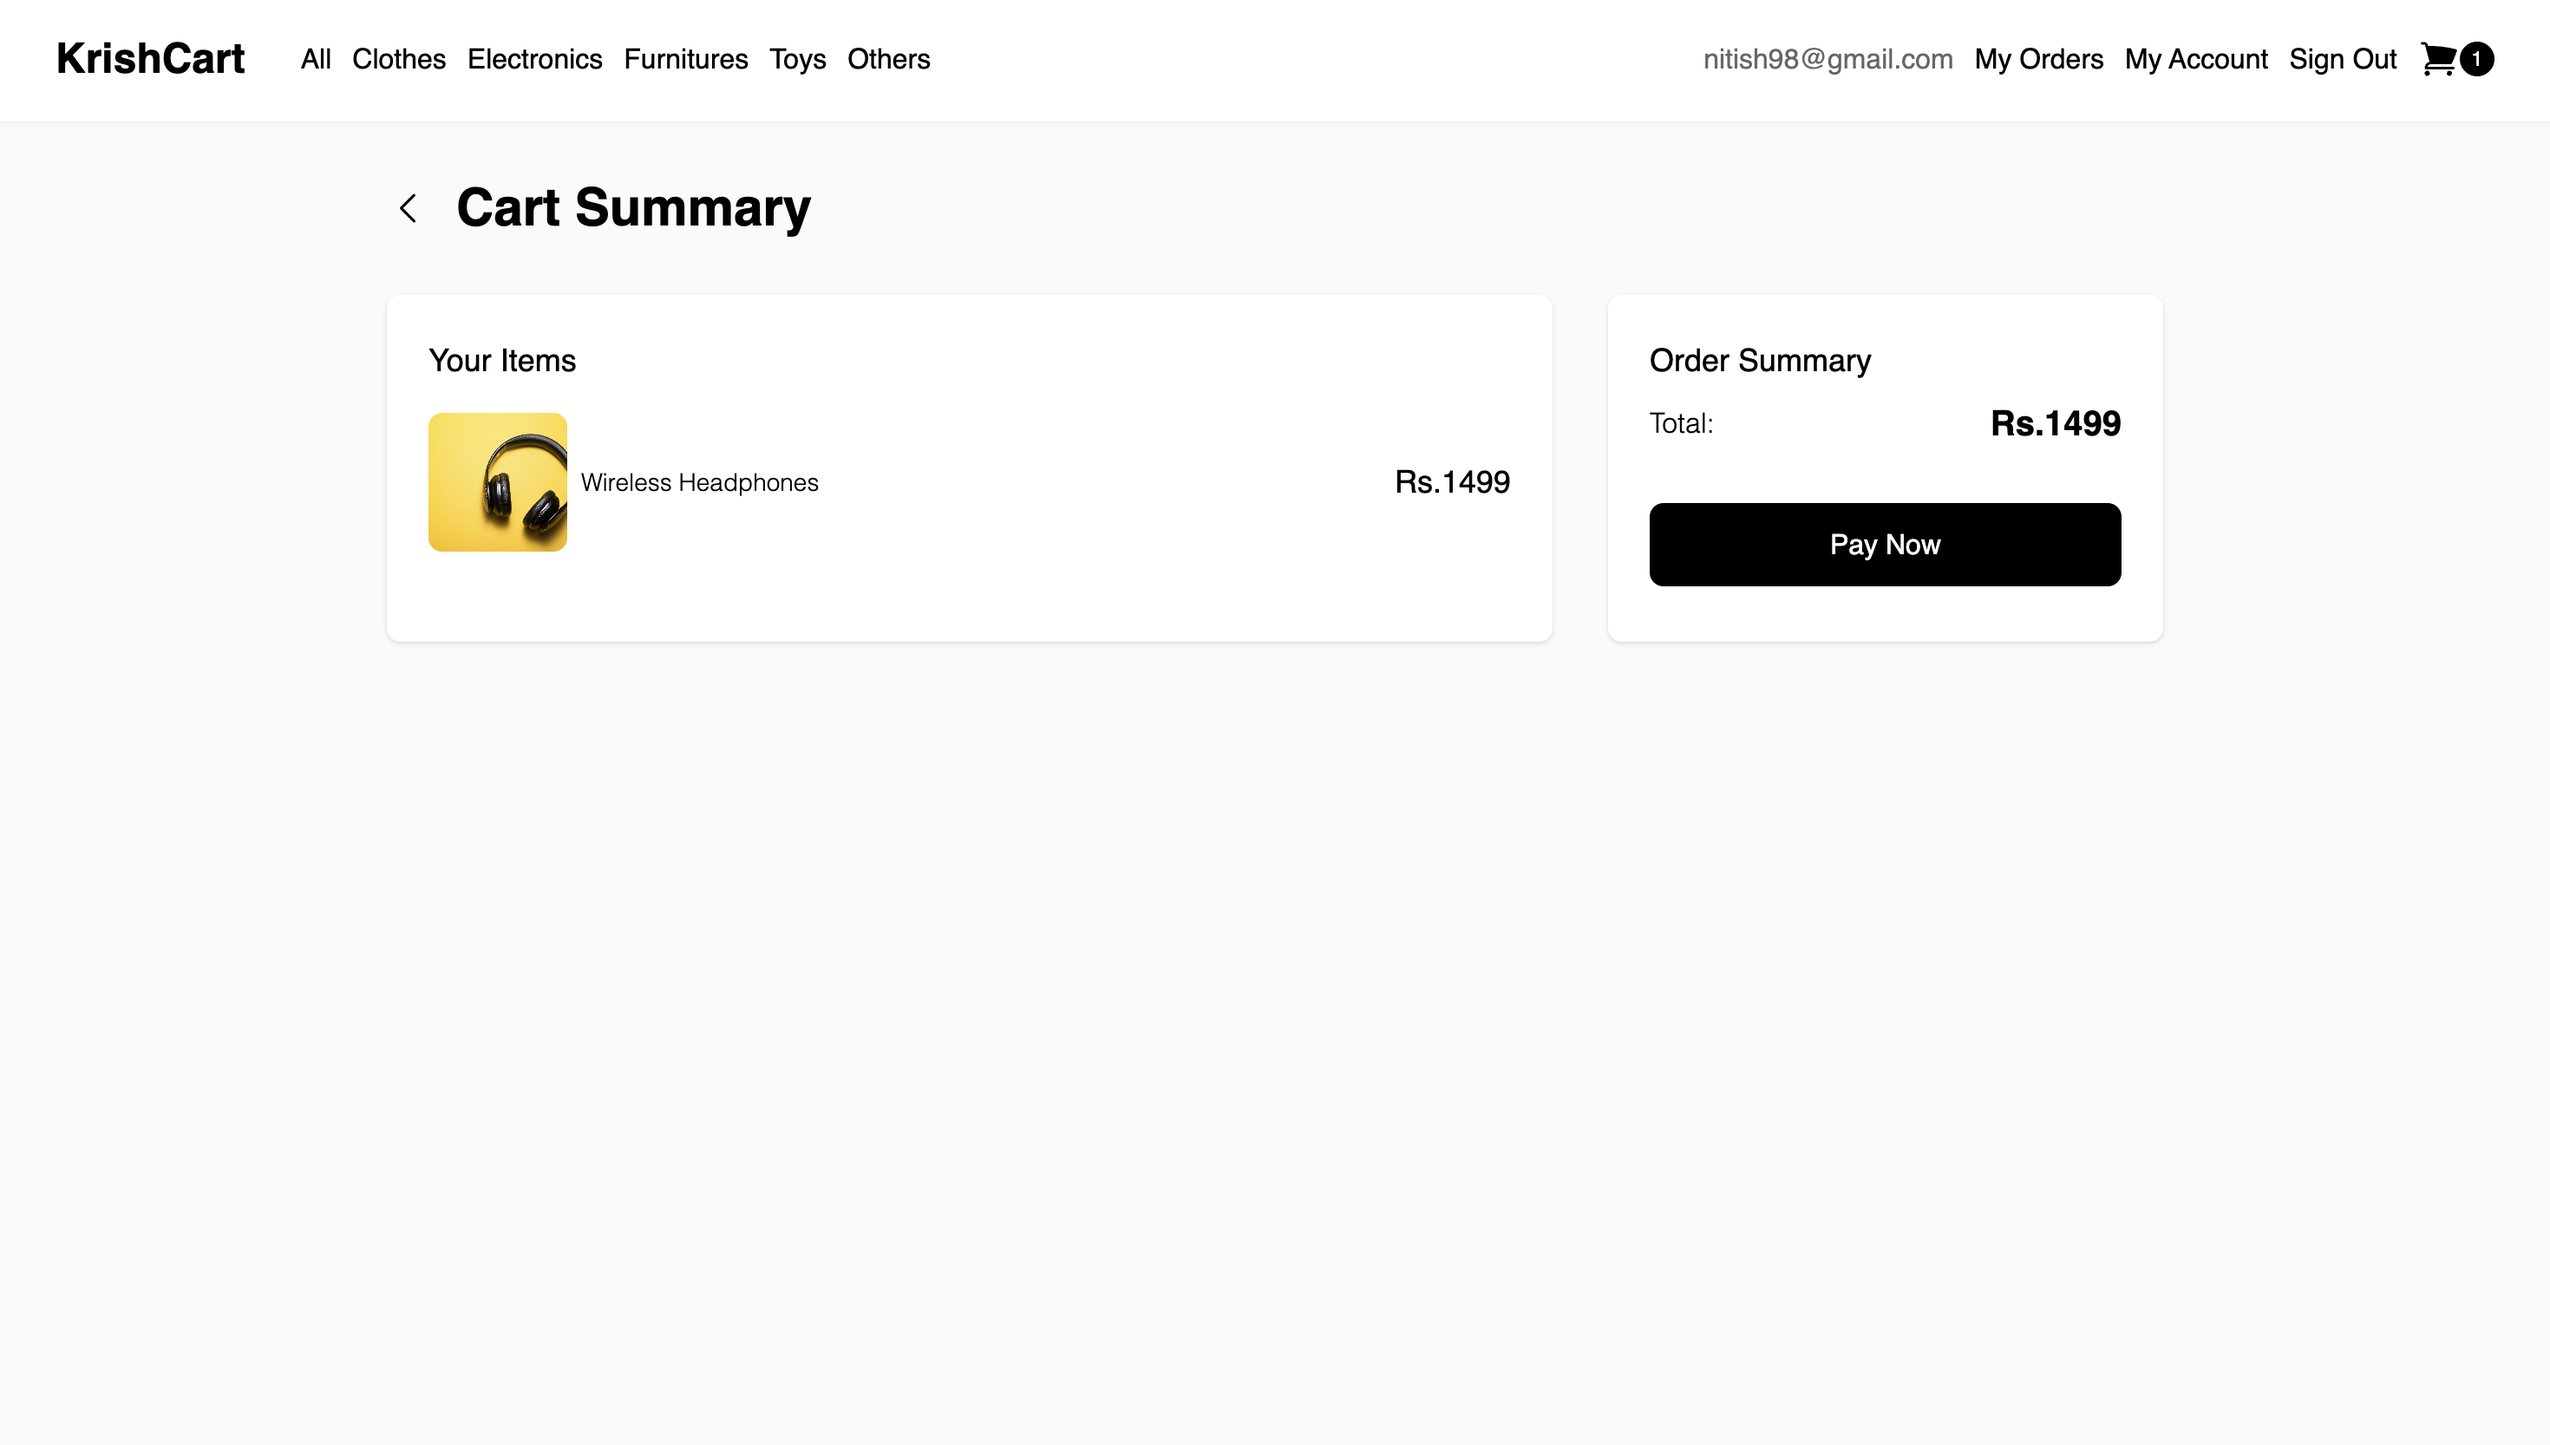
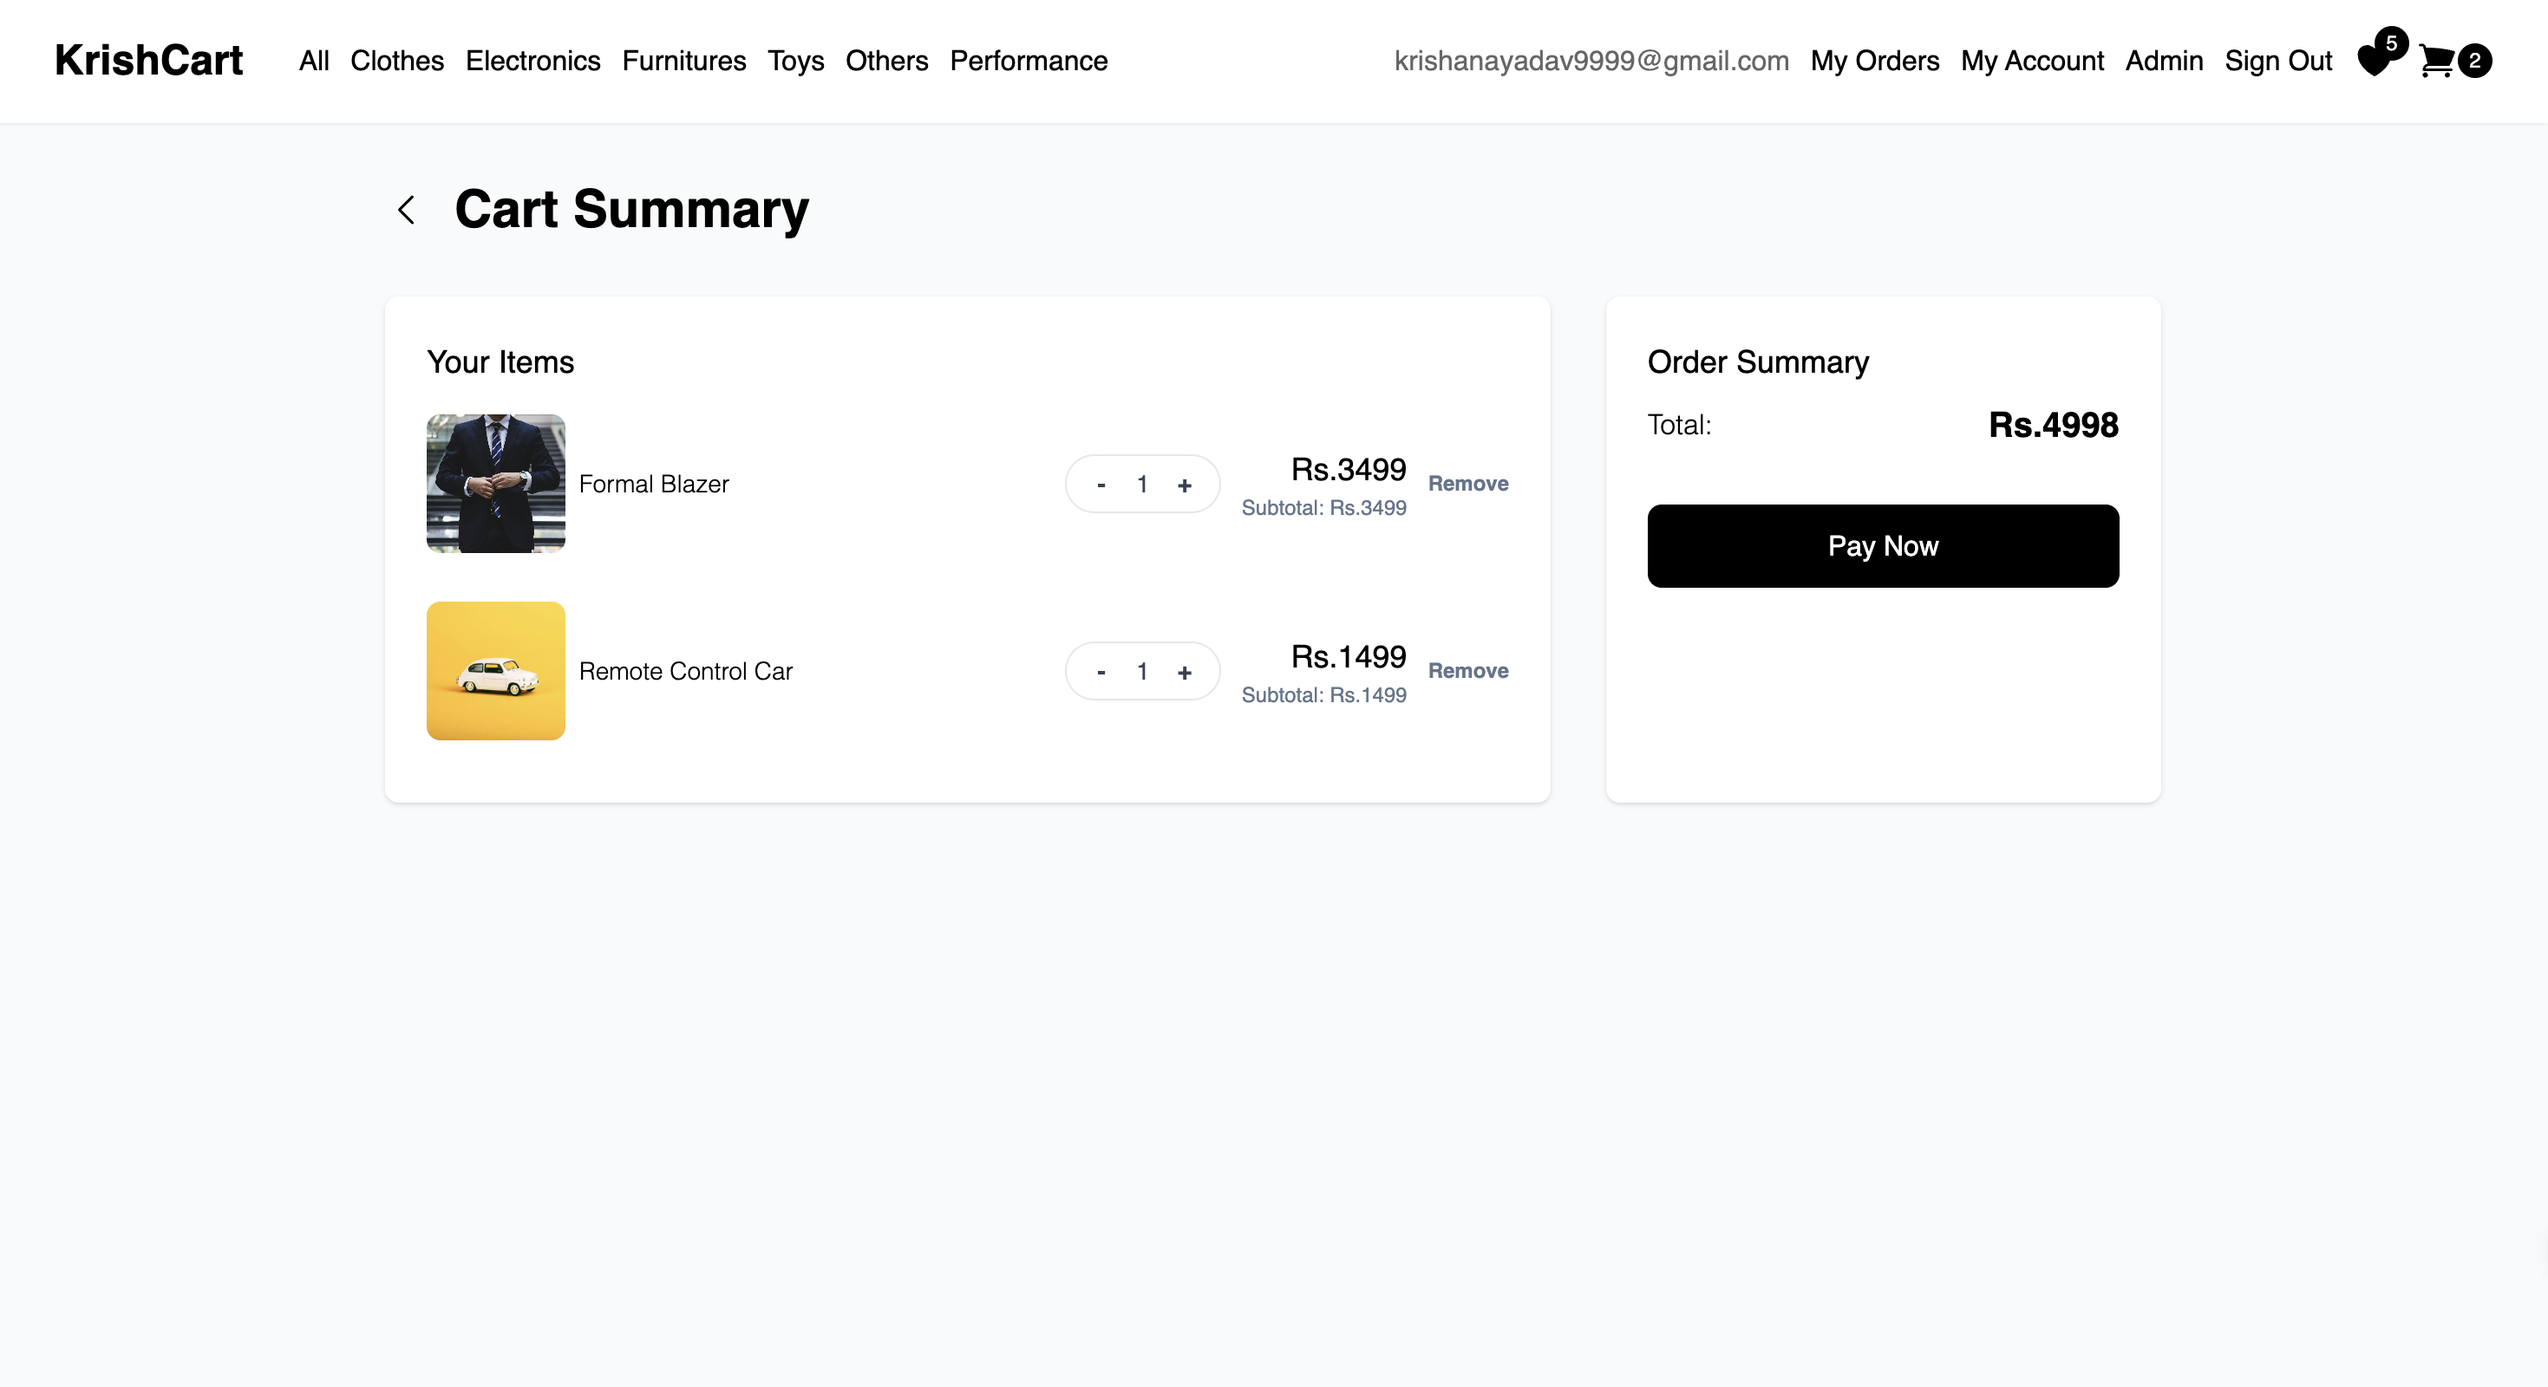
Update README: features, screenshots, accomplishments, and SMTP/OTP note

diff --git a/backend/utils/email.js b/backend/utils/email.js
@@ -30,6 +30,7 @@ const sendEmail = async ({ to, subject, text, html, type, relatedId, meta, retry
   let status = 'skipped';
   let errorMessage = '';
   let messageId = '';
+  let provider = 'nodemailer';
 
   if (!transporter) {
     errorMessage = 'SMTP not configured';
@@ -44,9 +45,11 @@ const sendEmail = async ({ to, subject, text, html, type, relatedId, meta, retry
         html
       });
       status = 'success';
+      provider = 'nodemailer';
       messageId = info.messageId || '';
     } catch (error) {
       status = 'failed';
+      provider = 'nodemailer';
       errorMessage = error.message;
       console.error('[email] Send failed:', error.message);
     }
@@ -64,7 +67,7 @@ const sendEmail = async ({ to, subject, text, html, type, relatedId, meta, retry
       type: type || '',
       relatedId: relatedId || '',
       meta: meta || {},
-      provider: 'nodemailer',
+      provider,
       retryOf: retryOf || null
     });
   } catch (logError) {

diff --git a/README.md b/README.md
@@ -27,15 +27,25 @@ All data is persisted in MongoDB Atlas and the application is fully deployed on 
 ## ✨ Features
 
 - 🔐 JWT-based Authentication (Register / Login)
+- 📧 Email OTP Verification (SMTP)
 - 👤 Secure User Profile Route
 - 🛍 Product Listing & Product Details
-- 🛒 Add to Cart & Checkout (Fake Payment Flow)
+- 🗂 Category Filter
+- 🛒 Add to Cart & Cart Summary
+- ❤ Wishlist
+- 💳 Checkout (Fake Payment Flow)
 - 📦 Order Creation & Order History
+- 🧾 Invoice Bill Download (PDF)
 - 🗄 MongoDB Atlas Integration
-- 📱 Fully Responsive UI
+- 🧑💼 Admin Dashboard (Analytics, Orders, Products, Users, Audit)
+- 📊 Admin Analytics & Revenue Charts
+- ⚠ Low Stock Alert (Admin)
+- 📱 Fully Responsive UI (Mobile/Desktop)
 - ☁ Full Deployment on Render
 - 📈 Performance & SEO Audit Page
 - 🛡 Security Hardening (Helmet + Rate Limit)
+- 🩺 Health Endpoint for Uptime
+- 🛠 Sentry Monitoring (optional)
 - ✅ CI Pipeline (Lint + Build + Tests)
 
 ---
@@ -125,16 +135,34 @@ npm install
 
 ### 3⃣ Environment Variables
 
-Create .env file inside the backend/ folder:
+Create `.env` file inside the `backend/` folder:
+
+```
 MONGODB_URI=your_mongodb_connection_string
 JWT_SECRET=your_secret_key
 PORT=3000
 SENTRY_DSN=your_sentry_dsn (optional)
 
-Create .env inside react-ecommerce/:
+# SMTP Email Configuration (for OTP, notifications, etc.)
+SMTP_HOST=smtp.gmail.com
+SMTP_PORT=587
+SMTP_USER=your_email@gmail.com
+SMTP_PASS=your_app_password
+SMTP_FROM="KrishCart <your_email@gmail.com>"
+SMTP_DEBUG=false
+OTP_RESEND_COOLDOWN_SECONDS=60
+OTP_LOCKOUT_MINUTES=15
+```
+
+> **Note:** For Gmail, you must use an App Password (not your normal password). Enable 2FA in your Google account and generate an App Password for SMTP.
+
+Create `.env` inside `react-ecommerce/`:
+
+```
 VITE_API_URL=http://localhost:3000
 VITE_SENTRY_DSN=your_sentry_dsn (optional)
 VITE_SENTRY_TRACES_SAMPLE_RATE=0.1 (optional)
+```
 
 ### 4⃣ Run Application
 
@@ -145,6 +173,11 @@ cd backend
 node index.js
 ```
 
+> **Troubleshooting SMTP:**
+>
+> - Render and most free cloud hosts block SMTP ports. For local testing, SMTP will work. For production, use a VPS or a transactional email API (Mailgun, Resend, etc.).
+> - If you get connection timeout or authentication errors, check your SMTP credentials and network restrictions.
+
 #### ▶ Start Frontend
 
 ```bash
@@ -154,6 +187,8 @@ npm run dev
 
 Frontend → http://localhost:5173  
 Backend → http://localhost:3000
+
+> **Note:** Due to SMTP port restrictions on Render, the Email/OTP feature will not work in the live demo. This feature is fully functional when running locally or on a VPS (Virtual Private Server). For a complete demo of email/OTP, please run the backend on your local machine or a VPS.
 
 ---
 
@@ -249,13 +284,45 @@ Visit `/performance` to view the audit summary and notes. Replace the sample met
     <td align="center"><b>Product Detail</b></td>
     <td align="center"><b>Shopping Cart</b></td>
   </tr>
-    <tr>
+  <tr>
     <td><img src="screenshots/signin.png" width="400"/></td>
     <td><img src="screenshots/signup.png" width="400"/></td>
   </tr>
   <tr>
     <td align="center"><b>Sign In Page</b></td>
     <td align="center"><b>Sign Up Page</b></td>
+  </tr>
+  <tr>
+    <td><img src="screenshots/orderHistory.png" width="400"/></td>
+    <td><img src="screenshots/wishlist.png" width="400"/></td>
+  </tr>
+  <tr>
+    <td align="center"><b>Order History</b></td>
+    <td align="center"><b>Wishlist</b></td>
+  </tr>
+  <tr>
+    <td><img src="screenshots/orderDetail.png" width="400"/></td>
+    <td><img src="screenshots/invoice.png" width="400"/></td>
+  </tr>
+  <tr>
+    <td align="center"><b>invoice download button</b></td>
+    <td align="center"><b>Invoice Download</b></td>
+  </tr>
+  <tr>
+    <td><img src="screenshots/stockManage.png" width="400"/></td>
+    <td><img src="screenshots/analytics.png" width="400"/></td>
+  </tr>
+  <tr>
+    <td align="center"><b>Stock Manage</b></td>
+    <td align="center"><b>Admin Analytics</b></td>
+  </tr>
+  <tr>
+    <td><img src="screenshots/stockAleart.png" width="400"/></td>
+    <td><img src="screenshots/mobile.png" width="400"/></td>
+  </tr>
+  <tr>
+    <td align="center"><b>Low Stock Alert</b></td>
+    <td align="center"><b>Mobile View</b></td>
   </tr>
 </table>
 
@@ -264,7 +331,7 @@ Visit `/performance` to view the audit summary and notes. Replace the sample met
 ### 🗄 MongoDB Database (Atlas)
 
 <p align="center">
-  <img src="screenshots/db.png" width="600"/>
+  <img src="screenshots/mongodb.png" width="600"/>
 </p>
 
 <p align="center">
@@ -275,12 +342,17 @@ Visit `/performance` to view the audit summary and notes. Replace the sample met
 
 👨💻 Key Accomplishments
 
-    •	Built complete MERN stack application from scratch
-    •	Implemented secure authentication with JWT & Bcrypt
-    •	Designed RESTful APIs following best practices
-    •	Integrated MongoDB Atlas for persistent data storage
-    •	Created responsive mobile-first UI using Tailwind CSS
-    •	Successfully deployed full-stack project
+- Built complete MERN stack application from scratch
+- Implemented secure authentication with JWT & Bcrypt
+- Designed RESTful APIs following best practices
+- Integrated MongoDB Atlas for persistent data storage
+- Created responsive mobile-first UI using Tailwind CSS
+- Implemented email OTP verification using SMTP
+- Developed admin dashboard with analytics, revenue charts, and low stock alerts
+- Added wishlist, order history, and invoice bill download (PDF) features for users
+- Applied security best practices (Helmet, rate limiting)
+- Added health endpoint and Sentry monitoring for reliability
+- Successfully deployed full-stack project
 
 📄 License
 
